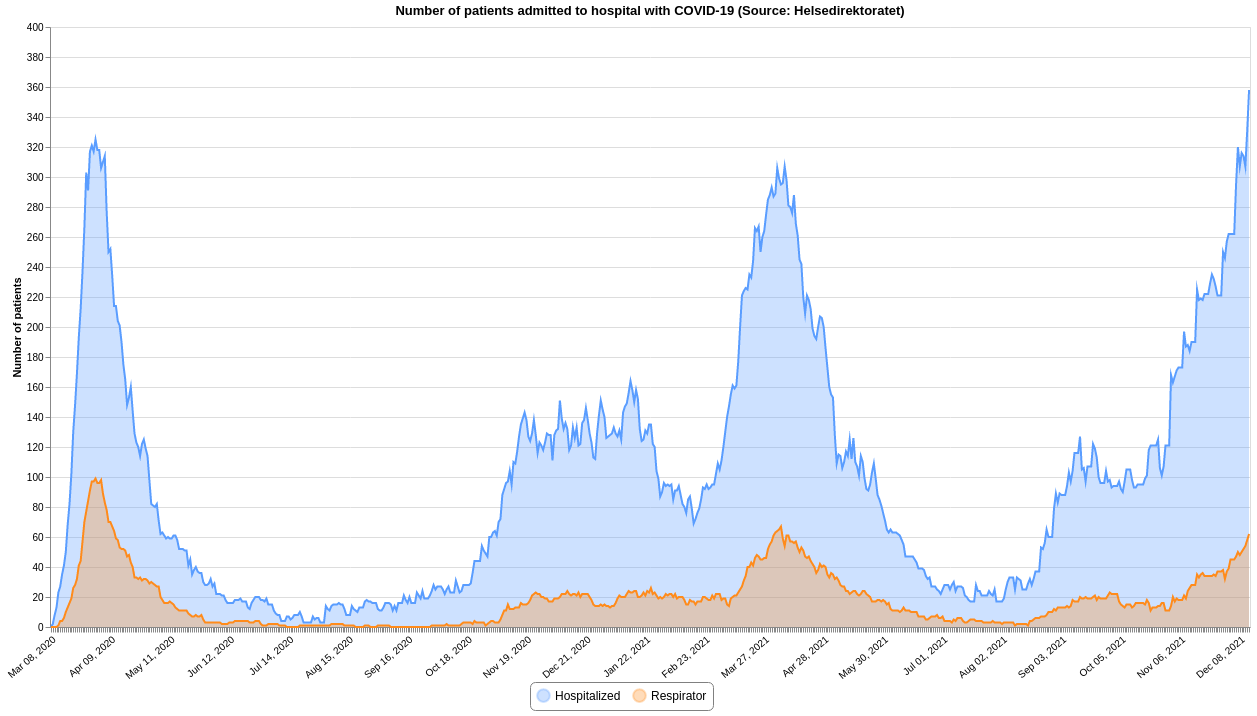
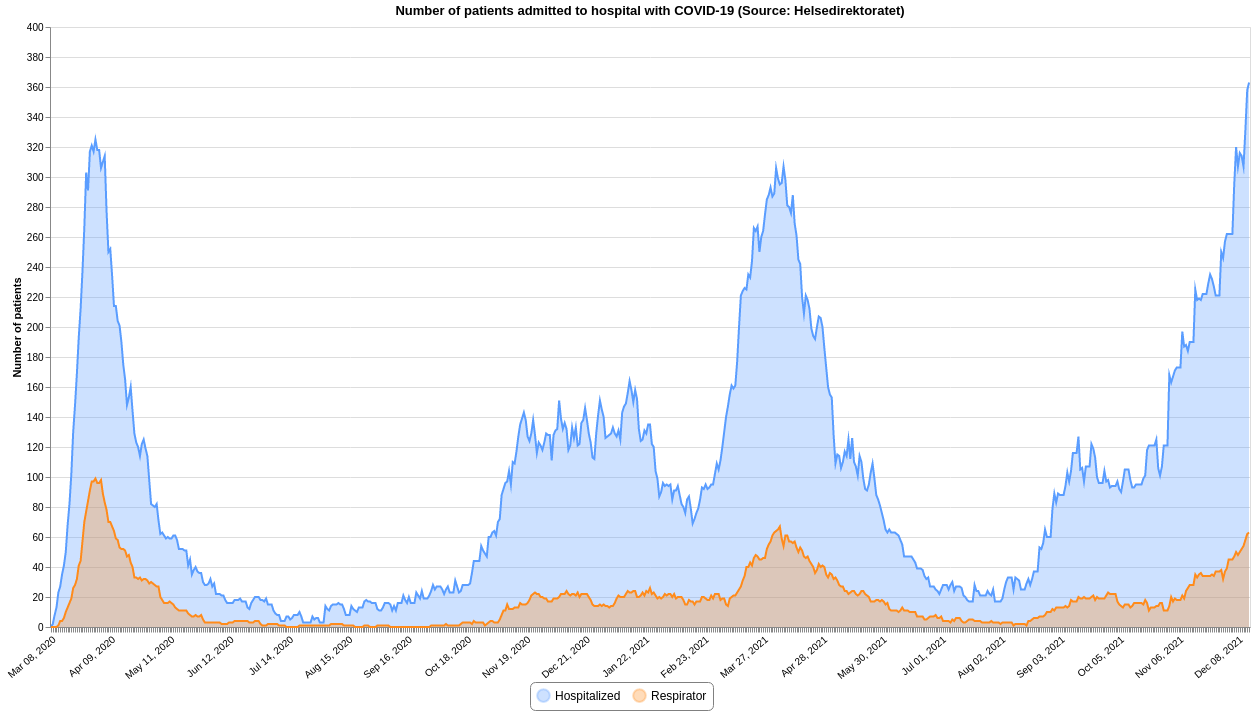
Updated 2021-12-14 12:50

diff --git a/README.md b/README.md
@@ -12,7 +12,7 @@ This repository contains datasets of daily time-series data related to COVID-19 
 | :--- | :--- | :--- | :--- | :--- |
 |[Confirmed](#confirmedcsv)|FHI / MSIS|2021-12-14 00:20:43+01:00|[<center>csv</center>](https://raw.githubusercontent.com/frefrik/covid19norge-data/main/data/confirmed.csv)|[<center>preview</center>](data/confirmed.csv)|
 |[Dead](#deadcsv)|FHI|2021-12-13 13:20:54+01:00|[<center>csv</center>](https://raw.githubusercontent.com/frefrik/covid19norge-data/main/data/dead.csv)|[<center>preview</center>](data/dead.csv)|
-|[Hospitalized](#hospitalizedcsv)|Helsedirektoratet|2021-12-13 13:00:46+01:00|[<center>csv</center>](https://raw.githubusercontent.com/frefrik/covid19norge-data/main/data/hospitalized.csv)|[<center>preview</center>](data/hospitalized.csv)|
+|[Hospitalized](#hospitalizedcsv)|Helsedirektoratet|2021-12-14 12:50:45+01:00|[<center>csv</center>](https://raw.githubusercontent.com/frefrik/covid19norge-data/main/data/hospitalized.csv)|[<center>preview</center>](data/hospitalized.csv)|
 |[Tested](#testedcsv)|FHI|2021-12-13 13:10:44+01:00|[<center>csv</center>](https://raw.githubusercontent.com/frefrik/covid19norge-data/main/data/tested.csv)|[<center>preview</center>](data/tested.csv)|
 |[Tested Lab](#tested_labcsv)|FHI|2021-12-13 13:20:50+01:00|[<center>csv</center>](https://raw.githubusercontent.com/frefrik/covid19norge-data/main/data/tested_lab.csv)|[<center>preview</center>](data/tested_lab.csv)|
 |[Transport](#transportcsv)|FHI|2021-09-24 23:10:46+02:00|[<center>csv</center>](https://raw.githubusercontent.com/frefrik/covid19norge-data/main/data/transport.csv)|[<center>preview</center>](data/transport.csv)|
